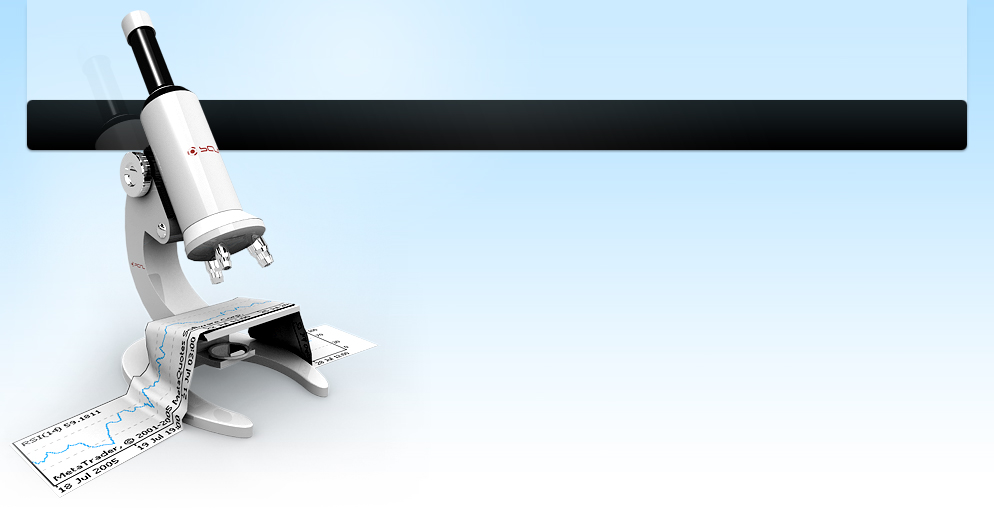
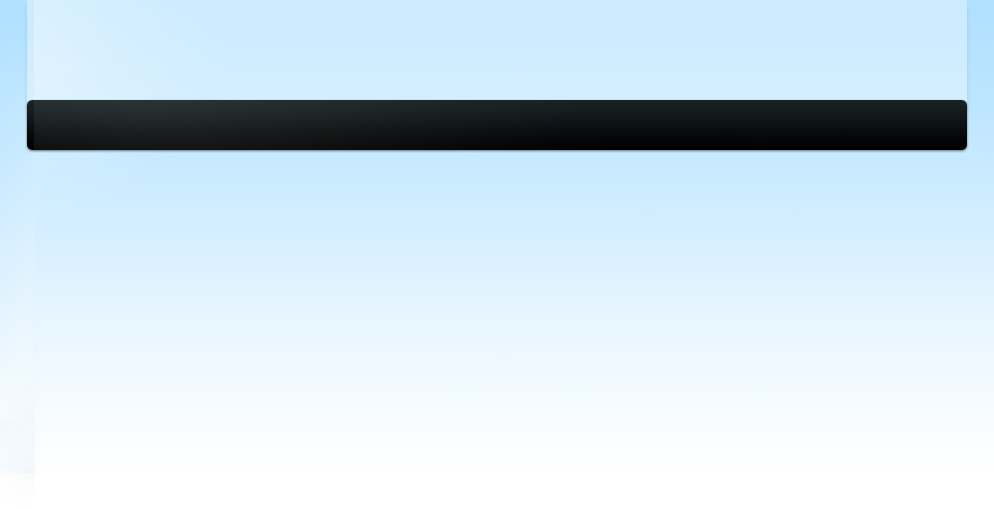
fix project template

Changed region(s): [[0.0, 0.0, 0.3742, 0.9725]]

diff --git a/index.html b/index.html
@@ -18,7 +18,7 @@
 <!-- header -->
 			<header>
 				<div class="wrapper">
-					<h1><a href="index.html" id="logo">Sciencelab</a></h1>
+					<h1><a href="index.html" id="logo">augmented reality in medical surgey</a></h1>
 					<form id="search" method="post">
 						<div>
 							<input type="submit" class="submit" value="">
@@ -30,23 +30,19 @@
 					<nav>
 						<ul id="menu">
 							<li><a href="index.html">Home</a></li>
-							<li><a href="Services.html">Services</a></li>
-							<li><a href="Researches.html">Researches</a></li>
-							<li><a href="Press.html">Press</a></li>
+							<li><a href="Researches.html">Team</a></li>
+							<li><a href="Services.html">Publications</a></li>
+							<li><a href="Press.html">Demo</a></li>
 							<li><a href="Contacts.html">Contacts</a></li>
 						</ul>
 					</nav>
 				</div>
 				<div class="wrapper">
 					<div class="col">
-						<h2>Lab Technology <span>Professional Research</span></h2>
-						<p class="pad_bot1"><strong>Sed ut perspiciatis unde omnis</strong> iste naterror voluptatem accusantium doareue laudantium, totam rem aperiam, eaque ipsa quae ab illo inventore:</p>
-						<ul class="list1 pad_bot2">
-							<li><a href="#">Veritatis et quasi architecto beatae vitae dicta</a></li>
-							<li><a href="#">Nemo enim ipsam voluptatem quia voluptas sit aspernatur</a></li>
-							<li><a href="#">Sed quia consequuntur magni dolores eos ratione</a></li>
-						</ul>
-						<a href="#" class="button"><span>Read More</span></a>
+						<h2> Augmented Reality Project 
+						<p style="font-size:28px;line-height:1.2em;color:#008cdd;display:block;margin-top:-2px;letter-spacing:0; text-align: justify;"> In the medical surgery </p>
+						</h2>
+						<p class="pad_bot1"  style="text-align: justify;"><strong>Augmented Reality technology (AR) </strong> offers innovative ways to visualize and manipulate 3D data of an object by superimposing computer-generated images into another object interactively. The ability to interact with digital and spatial information in real-time offers new opportunities to manipulate, visualize and process medical data with more ease and efficiency. </p>
 					</div>
 				</div>
 			</header>
@@ -54,39 +50,49 @@
 <!-- content -->
 			<section id="content">
 				<article class="col1">
-					<h3>Latest News</h3>
+					<h3>Partners</h3>
 					<div class="wrapper">
-						<figure class="left marg_right1"><a href="#"><img src="images/page1_img1.jpg" alt=""></a></figure>
-						<p>
-							<strong>Atvero eos acusmus</strong><br>et iusto odio dignissimos ducimus qui blanditiis praentium. &nbsp; <a href="#">More</a>
+						<figure class="left marg_right1"><a href="#"><img src="images/chu2.jpg" alt=""></a></figure>
+						<p style="font-size:14px;">
+							<strong> Sahloul Hospital of Sousse </strong><br><p style="text-align: justify; font-size:11px;">The Sahloul hospital is a public health establishment and a Tunisian university hospital center located in Sousse.
+							The main activity of the Sahloul University Hospital is to provide care as well as to ensure prevention, education and research in the medical and health fields. </p>
 						</p>
 					</div>
 					<div class="wrapper">
-						<figure class="left marg_right1"><a href="#"><img src="images/page1_img2.jpg" alt=""></a></figure>
-						<p>
-							<strong>Voluptatum deleniti</strong> Atque corrupti dolores et quas molestias exceptur sint occaecati. &nbsp; <a href="#">More</a>
+						<figure class="left marg_right1"><a href="#"><img src="images/us2.jpg" alt=""></a></figure>
+						<p style="font-size:14px;">
+							<strong> University of Sousse</strong>
+						<p style="text-align: justify; font-size:11px;">
+							The University of Sousse is a public academic organization that offers bachelor's, master's and doctorate training programs in four families of disciplines namely humanities, social sciences, engineering and technology and health sciences.
 						</p>
 					</div>
 					<div class="wrapper">
-						<figure class="left marg_right1"><a href="#"><img src="images/page1_img3.jpg" alt=""></a></figure>
-						<p>
-							<strong>Cupiditate provident</strong> Similique sunt in culpa qui officia deserunt mollitia animi. &nbsp; <a href="#">More</a>
+						<figure class="left marg_right1"><a href="#"><img src="images/issat2.jpg" alt=""></a></figure>
+						<p style="font-size:14px;">
+							<strong>ISSAT Sousse</strong>
+						<p style="text-align: justify; font-size:11px;">
+							The Higher Institute of Applied Sciences and Technology of Sousse is a scientific institute under the University of Sousse (Tunisia)
+							It offers training in the fields of computing, electronics, energy and mechanics. The mission of the ISSAT is also to train computer engineers and multidisciplinary research Masters.
 						</p>
 					</div>
 				</article>
 				<article class="col2">
-					<h3>Welcome to Science Lab!</h3>
-					<p class="pad_bot2">
-						ScienceLab is one of <a href="http://blog.templatemonster.com/free-website-templates/" target="_blank">free website templates</a> created by TemplateMonster.com team. This website template is optimized for 1024X768 screen resolution. It is also XHTML & CSS valid.
+					<h3>Augmented Reality Surgey!</h3>
+					<p class="pad_bot2" style="text-align: justify;">
+						During surgical procedures, surgeons face various challenges dealing with the computerized patient data...</br>
+						Several techniques are used to visualize the operative areas such as fluoroscopy and ultrasound.
+						These techniques have several limitations. 
+						As consequence, Augmented Reality could serve as a better alternative that can project three-dimensional models of the target organ into the surgeon’s perspective and field of view, in order to improve the accuracy and efficiency of the medical intervention.
 					</p>
 					<div class="wrapper pad_bot1">
-						<figure class="left marg_right1"><img src="images/page1_img4.jpg" alt=""></figure>
-						<p class="pad_bot2">
-							This <a href="http://blog.templatemonster.com/2011/02/21/free-science-website-template/" target="_blank" rel="nofollow">Free Science Website Template</a> goes with two packages – with PSD source files and without them. PSD source files are available for free for the registered members of Templates. com. The basic package (without PSD source is available for anyone without registration).
+						<figure class="left marg_right1"><img src="images/ar1.jpg" alt=""></figure>
+						<p class="pad_bot2"  style="text-align: justify;">
+							AR-based approach with the integration of a tracking system could be developed to generate superimposed images of the human organ intraoperatively in real-time. </br>
+							Surgeons will be able to visualize a computer-generated digital representation of the organ and interact with it accordingly.
 						</p>
 					</div>
-					<p>
-						This website template has several pages: <a href="index.html">Home</a>, <a href="Services.html">Services</a>, <a href="Researches.html">Researches</a>, <a href="Press.html">Press</a>, <a href="Contacts.html">Contacts</a> (note that contact us form – doesn’t work).
+					<p  style="text-align: justify;">
+						This AR project introduce an ambitious alternative solution,  to mitigate surgery issues and guide the surgeon to have improved diagnosis and decision making during constrained surgical operations by offering a wider and global visual representation of the organ.
 					</p>
 				</article>
 			</section>
@@ -95,76 +101,76 @@
 </div>
 <div class="body3">
 	<div class="main">
-		<section id="content2">
-			<article class="col3">
-				<h4><span><span class="right"></span>Lab Equipment</span></h4>
-				<div class="wrapper">
-					<div class="pad">
-						<p class="pad_bot3">
-							<strong>Vero eoset accusamus eot iusto odio dignissimos</strong>
-						</p>
-						<p class="pad_bot3">
-							Blanditiis praesentium voluptatum deleniti atque corrupti quos dolores erum facilis est et expedita distinc et quas molestias excepturi occaecati cupiditate corrupti quos.
-						</p>
-						<p>
-							Non provident, similique sunt infgo culpa qui officia deserunt mollitia animid laborum et dolorum fuga. Et harum quidem.
-						</p>
+			<section id="content2">
+				<article class="col3">
+					<h4><span><span class="right"></span>Lab Equipment</span></h4>
+					<div class="wrapper">
+						<div class="pad">
+							<!--<p class="pad_bot3">
+								<strong>Vero eoset accusamus eot iusto odio dignissimos</strong>
+							</p>
+							<p class="pad_bot3">
+								Blanditiis praesentium voluptatum deleniti atque corrupti quos dolores erum facilis est et expedita distinc et quas molestias excepturi occaecati cupiditate corrupti quos.
+							</p>
+							<p>
+								Non provident, similique sunt infgo culpa qui officia deserunt mollitia animid laborum et dolorum fuga. Et harum quidem.
+							</p>
+								-->
+						</div>
 					</div>
-				</div>
-			</article>
-			<article class="col4">
-				<h4><span><span class="right"></span>Our Researches</span></h4>
-				<div class="wrapper">
-					<div class="pad">
-						<ul class="list2">
-							<li><a href="#">Blanditiis praesentium</a></li>
-							<li><a href="#">Voluptatum deleniti atqoue</a></li>
-							<li><a href="#">Corrupti qufgos dolores et quas</a></li>
-							<li><a href="#">Molestias excepturi sint</a></li>
-							<li><a href="#">Occaecati cupiditate</a></li>
-							<li><a href="#">Non provident, similique suont</a></li>
-							<li><a href="#">Culpa qui officia deserunt</a></li>
-							<li><a href="#">Mollitia animid laborum</a></li>
-						</ul>
+				</article>
+				<article class="col4">
+					<h4><span><span class="right"></span>Our Researches</span></h4>
+					<div class="wrapper">
+						<div class="pad">
+							<!--<ul class="list2">
+								<li><a href="#">Blanditiis praesentium</a></li>
+								<li><a href="#">Voluptatum deleniti atqoue</a></li>
+								<li><a href="#">Corrupti qufgos dolores et quas</a></li>
+								<li><a href="#">Molestias excepturi sint</a></li>
+								<li><a href="#">Occaecati cupiditate</a></li>
+								<li><a href="#">Non provident, similique suont</a></li>
+								<li><a href="#">Culpa qui officia deserunt</a></li>
+								<li><a href="#">Mollitia animid laborum</a></li>
+							</ul>
+								-->
+						</div>
 					</div>
-				</div>
-			</article>
-			<article class="col4">
-				<h4><span><span class="right"></span>Integrated Science</span></h4>
-				<div class="wrapper">
-					<div class="pad">
-						<p class="pad_bot3">
-							Blanditiis praesentium voluptatum deleniti atque corrupti quos dolores et quas molestias excepturi sint occaecati cupiditate.
-						</p>
-						<p class="pad_bot3">
-							Non provident, similique sunt in culpa qui officia deserunt mollitia animid laborum et dolorum fuga. Et harum quidem rerum facilis est et expedita distinctio.
-						</p>
-						<p>
-							<a href="#">Nam libero tempore, cumoluta nobis est eligendi optio cumque</a>
-						</p>
+				</article>
+				<article class="col4">
+					<h4><span><span class="right"></span>Integrated Science</span></h4>
+					<div class="wrapper">
+						<div class="pad">
+							<!--<p class="pad_bot3">
+								Blanditiis praesentium voluptatum deleniti atque corrupti quos dolores et quas molestias excepturi sint occaecati cupiditate.
+							</p>
+							<p class="pad_bot3">
+								Non provident, similique sunt in culpa qui officia deserunt mollitia animid laborum et dolorum fuga. Et harum quidem rerum facilis est et expedita distinctio.
+							</p>
+							<p>
+								<a href="#">Nam libero tempore, cumoluta nobis est eligendi optio cumque</a>
+							</p>
+								-->
+						</div>
 					</div>
-				</div>
-			</article>
-		</section>
-<!-- / content -->
-<!-- footer -->
-		<footer>
-			<nav>
-				<ul id="footer_menu">
-					<li><a href="index.html">Home</a></li>
-					<li><a href="Services.html">Services</a></li>
-					<li><a href="Researches.html">Researches</a></li>
-					<li><a href="Press.html">Press</a></li>
-					<li><a href="Contacts.html">Contacts</a></li>
-				</ul>
-			</nav>
-			<div class="pad">
-				 Website template designed by <a href="http://www.templatemonster.com/" target="_blank" rel="nofollow">www.templatemonster.com</a><br>
-				 3D Models provided by <a href="http://www.templates.com/product/3d-models/" target="_blank" rel="nofollow">www.templates.com</a>
-			</div>
-		</footer>
-<!-- / footer -->
-	</div>
+				</article>
+			</section>
+
+	<!-- / content -->
+	<!-- footer -->
+	<footer>
+		<nav>
+			<ul id="footer_menu">
+				<li><a href="index.html">Home</a></li>
+				<li><a href="Researches.html">Team</a></li>
+				<li><a href="Services.html">Publications</a></li>
+				<li><a href="Press.html">Demo</a></li>
+				<li><a href="Contacts.html">Contacts</a></li>
+			</ul>
+		</nav>
+	</footer>
+	<!-- / footer -->
+</div>
 </div>
 </body>
 </html>

diff --git a/css/style.css b/css/style.css
@@ -10,12 +10,12 @@ body {background:#f2f2f2;border:0;font:14px Arial, Helvetica, sans-serif;color:#
 .css3{border-radius:8px;-moz-border-radius:8px;-webkit-border-radius:8px;box-shadow:0 0 4px rgba(0, 0, 0, .4);-moz-box-shadow:0 0 4px rgba(0, 0, 0, .4);-webkit-box-shadow:0 0 4px rgba(0, 0, 0, .4);behavior:url(js/PIE.htc);position:relative}
 .main {	margin:0 auto;	width:940px}
 .body1 {background:url(../images/bg2_top.gif) top repeat-x #fff}
-.body2 {background:url(../images/bg2_top_img.jpg) top center no-repeat}
+.body2 {background:url(../images/bg_top_img.jpg) top center no-repeat}
 .body3 {background:url(../images/bg_top2.gif) top center repeat-x}
 /* main layout */
 a {color:#008cdd;text-decoration:underline;outline:none}
 a:hover {text-decoration:none}
-h1 {float:left;padding:21px 0 0 217px;position:absolute}
+h1 {float:left;padding:21px 0 0 30px;position:absolute}
 h2 {font-size:40px;line-height:1.2em;color:#182125;padding:35px 0 16px 0;font-weight:normal;letter-spacing:-1px}
 h2 span {font-size:20px;line-height:1.2em;color:#008cdd;display:block;margin-top:-2px;letter-spacing:0}
 h3 {font-size:30px;color:#182125;line-height:1.2em;padding:20px 0 18px 0;font-weight:normal}
@@ -25,7 +25,7 @@ h4 span.right {background:none;border:0}
 p {padding-bottom:20px}
 /* header */
 header {width:100%;overflow:hidden;padding-bottom:20px}
-#logo {display:block;background:url(../images/logo.jpg) no-repeat;width:227px;height:36px;text-indent:-5000px}
+#logo {display:block;background:url(../images/logo2.jpg) no-repeat;width:444px;height:60px;text-indent:-5000px}
 #search {float:right;padding:28px 50px 0 0}
 #search .submit {float:right;background:url(../images/search_button.gif) no-repeat;width:29px;height:29px;cursor:pointer}
 #search .input {float:right;margin-right:7px;background:url(../images/search_input.gif) no-repeat;width:177px;font:14px Arial, Helvetica, sans-serif;color:#363636;height:17px;padding:6px}

diff --git a/css/layout.css b/css/layout.css
@@ -7,10 +7,8 @@
 .cols {width:226px}
 /* index.html */
 #page1 .body1 {background:url(../images/bg_top.gif) top repeat-x #fff}
-#page1 .body2 {
-    background: url(../images/bg_img_top.jpg) top center no-repeat
-}
-#page1 h1 {padding:31px 0 0 30px}
+#page1 .body2 {background:url(../images/bg_top_img.jpg) top center no-repeat}
+#page1 h1 {padding:31px 0 0 217px}
 #page1 #search {padding:38px 50px 0 0}
 #page1 #menu {padding:32px 27px 0 0}
 #page1 h2 {padding:42px 0 21px 0}
